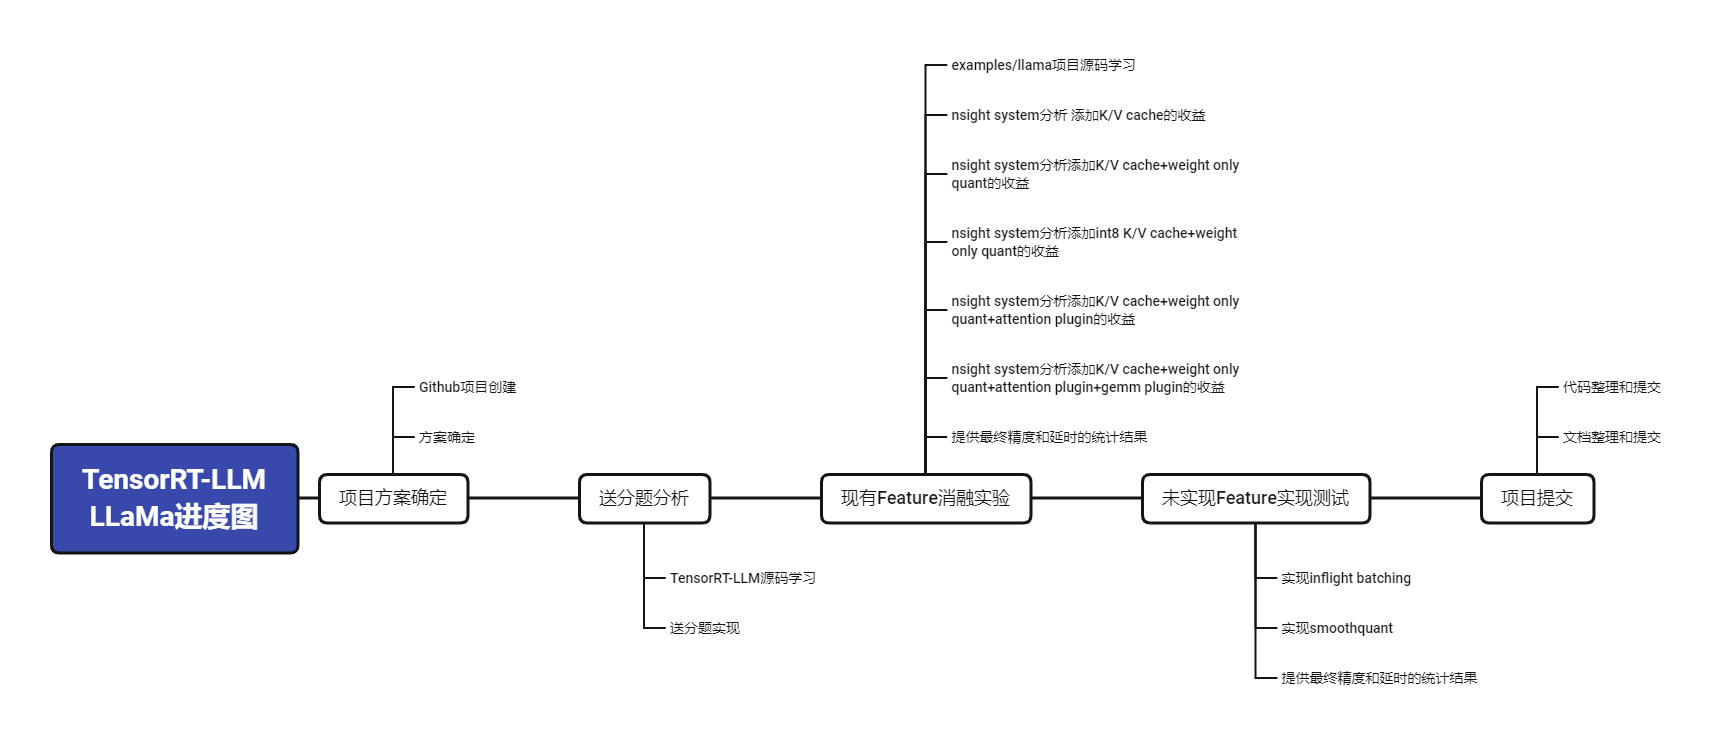
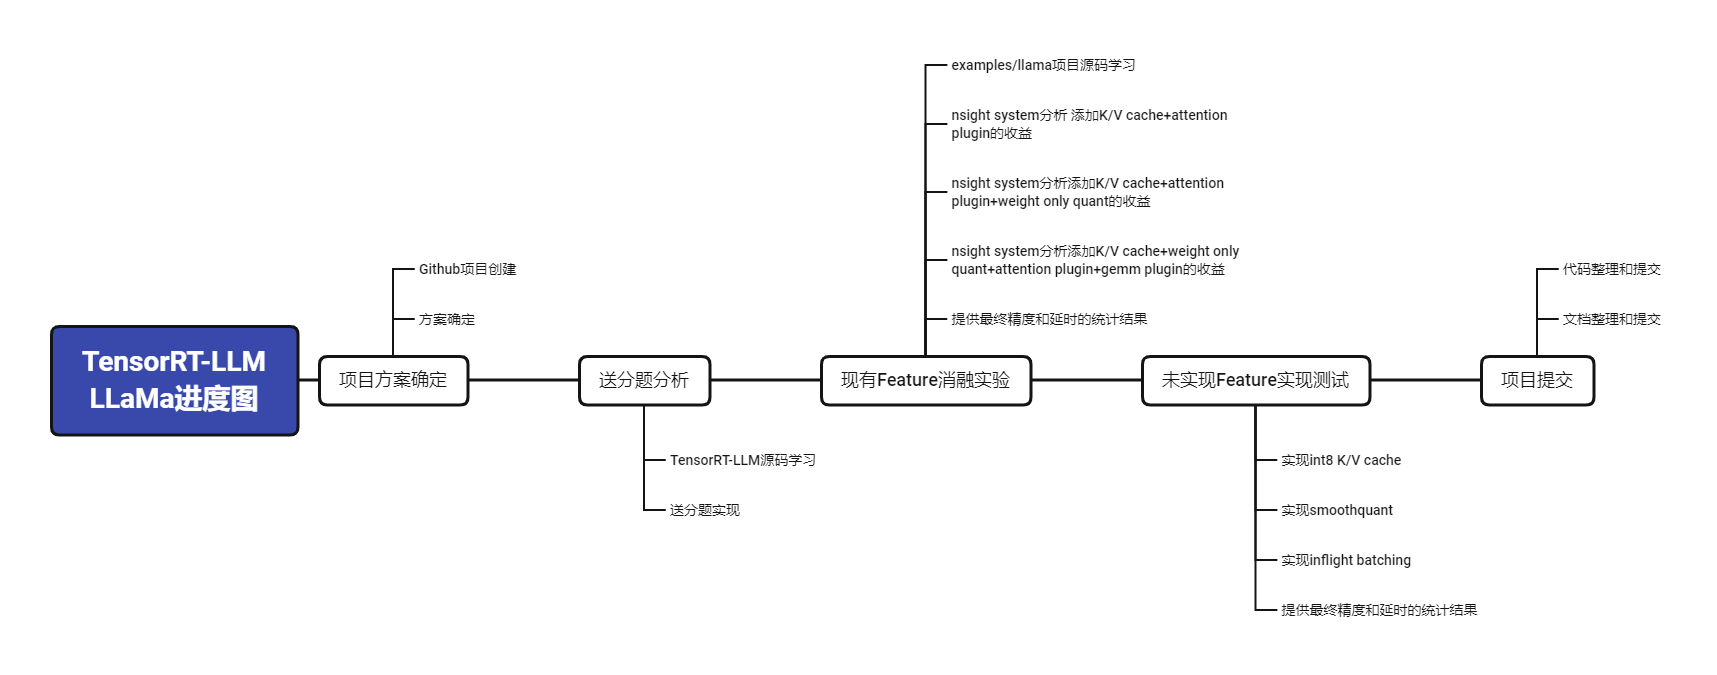
:fire: update readme error

diff --git a/README.md b/README.md
@@ -77,7 +77,7 @@ ToDo：
 针对于LLaMA-7B我们的优化过程主要分以下3个部分：
 + 1.初步运行`examples/llama`项目
 + 2.nsight systerm分析逐步添加feature进行消融实验
-+ 3.新featute实现：inflight batching 和 smoothquant
++ 3.新featute实现：int8 k/v cache, smoothquant和inflight batching
 
 每一部分我们提供了详细的运行脚本和测试结果。
 
@@ -232,14 +232,14 @@ llama-hf-run (mean latency: 1.7185083055496215 sec)
 
 可以看到在FP16下，attention plugin的latency为$13.576\mu s$,k/v cache的latency为$925.928\mu s$,带权重的矩阵乘的latency为$45.922\mu s$
 
-2. 添加: int8 k/v cache + attention_plugin + weight_only_quant
+2. 添加: k/v cache + attention_plugin + weight_only_quant
 
 + build engine
 
 ```shell
 python3 build.py --model_dir ./tmp/llama/7B/ \
                 --dtype float16 \
-                --use_int8_kv_cache \
+                --use_weight_only \
                 --output_dir ./tmp/llama/7B/trt_engines/int8_kvcache/1-gpu/
 ```
 
@@ -259,17 +259,11 @@ llama-run (mean latency: 0.7849386262893677 sec)
 ```
 上述结果显示，添加`k/v cache + attention plugin + weight_only_quant`后的TensorRT LLaMA的平均推断延时为`0.78494秒`，而HF下平均推断延时为`1.71851秒`,加速比为`2.189`
 
-分析`trt_llm_weight_only`nsys文件，可以清楚的看到attention plugin和int8 k/v cache以及矩阵乘的推理延时情况如下所示：
+分析`trt_llm_weight_only`nsys文件，可以清楚的看到attention plugin和矩阵乘的推理延时情况如下所示：
 
 + attention plugin profiling的耗时情况
 <div align=center>
 <img src="./assets/weight_only_quant/attention.png"/>
-</div>
-
-+ int8 k/v cache profiling的耗时情况
-
-<div align=center>
-<img src="./assets/weight_only_quant/kvcache.png"/>
 </div>
 
 + 带权重的矩阵乘的profiling的耗时情况
@@ -278,15 +272,14 @@ llama-run (mean latency: 0.7849386262893677 sec)
 <img src="./assets/weight_only_quant/matmul.png"/>
 </div>
 
-可以看到在weight only quant下，attention plugin的latency为$17.837\mu s$,int8 K/V cache的latency为$443.055\mu s$,带权重的矩阵乘的latency为$7.107\mu s$。对比上述FP16的情况有明显的加速效果。
+可以看到在weight only quant下，attention plugin的latency为$17.837\mu s$,带权重的矩阵乘的latency为$7.107\mu s$。对比上述FP16的情况有明显的加速效果。
 
 
-3. 添加: int8 k/v-cache + attention plugin + weight_only_quant + gemm plugin
+3. 添加: k/v cache + attention plugin + weight_only_quant + gemm plugin
 
 + build engine
 
 ```shell
-
 python3 build.py --model_dir ./tmp/llama/7B/ \
                 --dtype float16 \
                 --use_gpt_attention_plugin float16 \
@@ -310,7 +303,7 @@ nsys profile -o trt_llm_weight_only_attention_gemm python3 run.py --max_output_l
 # TensorRT-LLM 
 llama-run (mean latency: 0.7930449199676514 sec)
 ```
-上述结果显示，添加`int8 k/v cache + attention plugin + weight_only_quant + gemm plugin`后的TensorRT LLaMA的平均推断延时为`0.79304秒`，而HF下平均推断延时为`1.71851秒`,加速比为`2.167`
+上述结果显示，添加`k/v cache + attention plugin + weight_only_quant + gemm plugin`后的TensorRT LLaMA的平均推断延时为`0.79304秒`，而HF下平均推断延时为`1.71851秒`,加速比为`2.167`
 
 分析`trt_llm_weight_only_attention_gemm`nsys文件，可以清楚的看到gemm在使用plugin前后的推理延时情况如下所示：
 
@@ -381,20 +374,33 @@ llama-run (mean latency: 0.48769086837768555 sec)
 |-|-|-|-|-|-|-|
 | K/V cache|✔|✔|1|8|50|-|
 |+Attention Plugin|✔|✔|1|8|50|1.224|
-|+Int8 K/V cache|✔|✔|1|8|50|-|
 |+Weight Only Quant|✔|✔|1|8|50|2.189|
 |+Gemm Plugin|✔|✔|1|8|50|2.167|
-|+Int4|✔|✔|1|8|50|3.524|
-|Inflight Batching|❌|-|1|8|50|-|
+|+Int4 Weight Only Quant|✔|✔|1|8|50|3.524|
+|+Int8 K/V cache|❌|-|1|8|50|-|
 |SmoothQuant|❌|-|1|8|50|-|
+|Inflight Batching|❌|-|1|8|50|-|
 
 </div>
 
 ⚠注意：我们将在Section3-优化效果的第一部分提供现有feature下的加速效果和精度对比。
 
-#### 2.2.3 新featute实现：inflight batching 和 smoothquant
+#### 2.2.3 新featute实现：int8 k/v cache,smoothquant，inflight batching
 
-1.smoothquant
+1.int8 k/v cache
+
+<div align=center>
+<img src="./assets/int8_kv_cache.png"/>
+</div>
+
+int8 k/v cache本质和weight only quant一样，在模型generation phase读取之前的K和V类似于weight only quant中全连接层中读取weight,参照weight only quant也把K,V用int8保存下来，当我们真正计算的时候再将其dequant到高精度。
+
+`examples/llama`暂时不支持int8 k/v cache,这里我们实现了`examples/llama`的int8 k/v cache
+
+ToDo:int8 k/v cache的实现
+
+
+2.smoothquant
 
 <div align=center>
 <img src="./assets/smoothquant1.png"/>
@@ -409,12 +415,12 @@ $$Y=(Xdiag(s)^{-1}.(diag(s)W))=\hat{X}\hat{W}$$
 
 左边为smooth前，右边为smooth后，可以明显看到X乘以$s^{-1}$之后数据分布明显均匀了，把难度匀了一点给weight。
 
-TensorRT-LLM支持smoothquant并在examples中的其他模型样例中做了实现，下面我们将尝试在`examples/llama`中实现smoothquant。
+`examples/llama`暂不支持smoothquant，这里我们实现了`examples/llama`的smoothquant
 
 ToDo:smoothquant实现
 
 
-2.inflight batching
+3.inflight batching
 
 <div align=center>
 <img src="./assets/inflight-batch.png"/>
